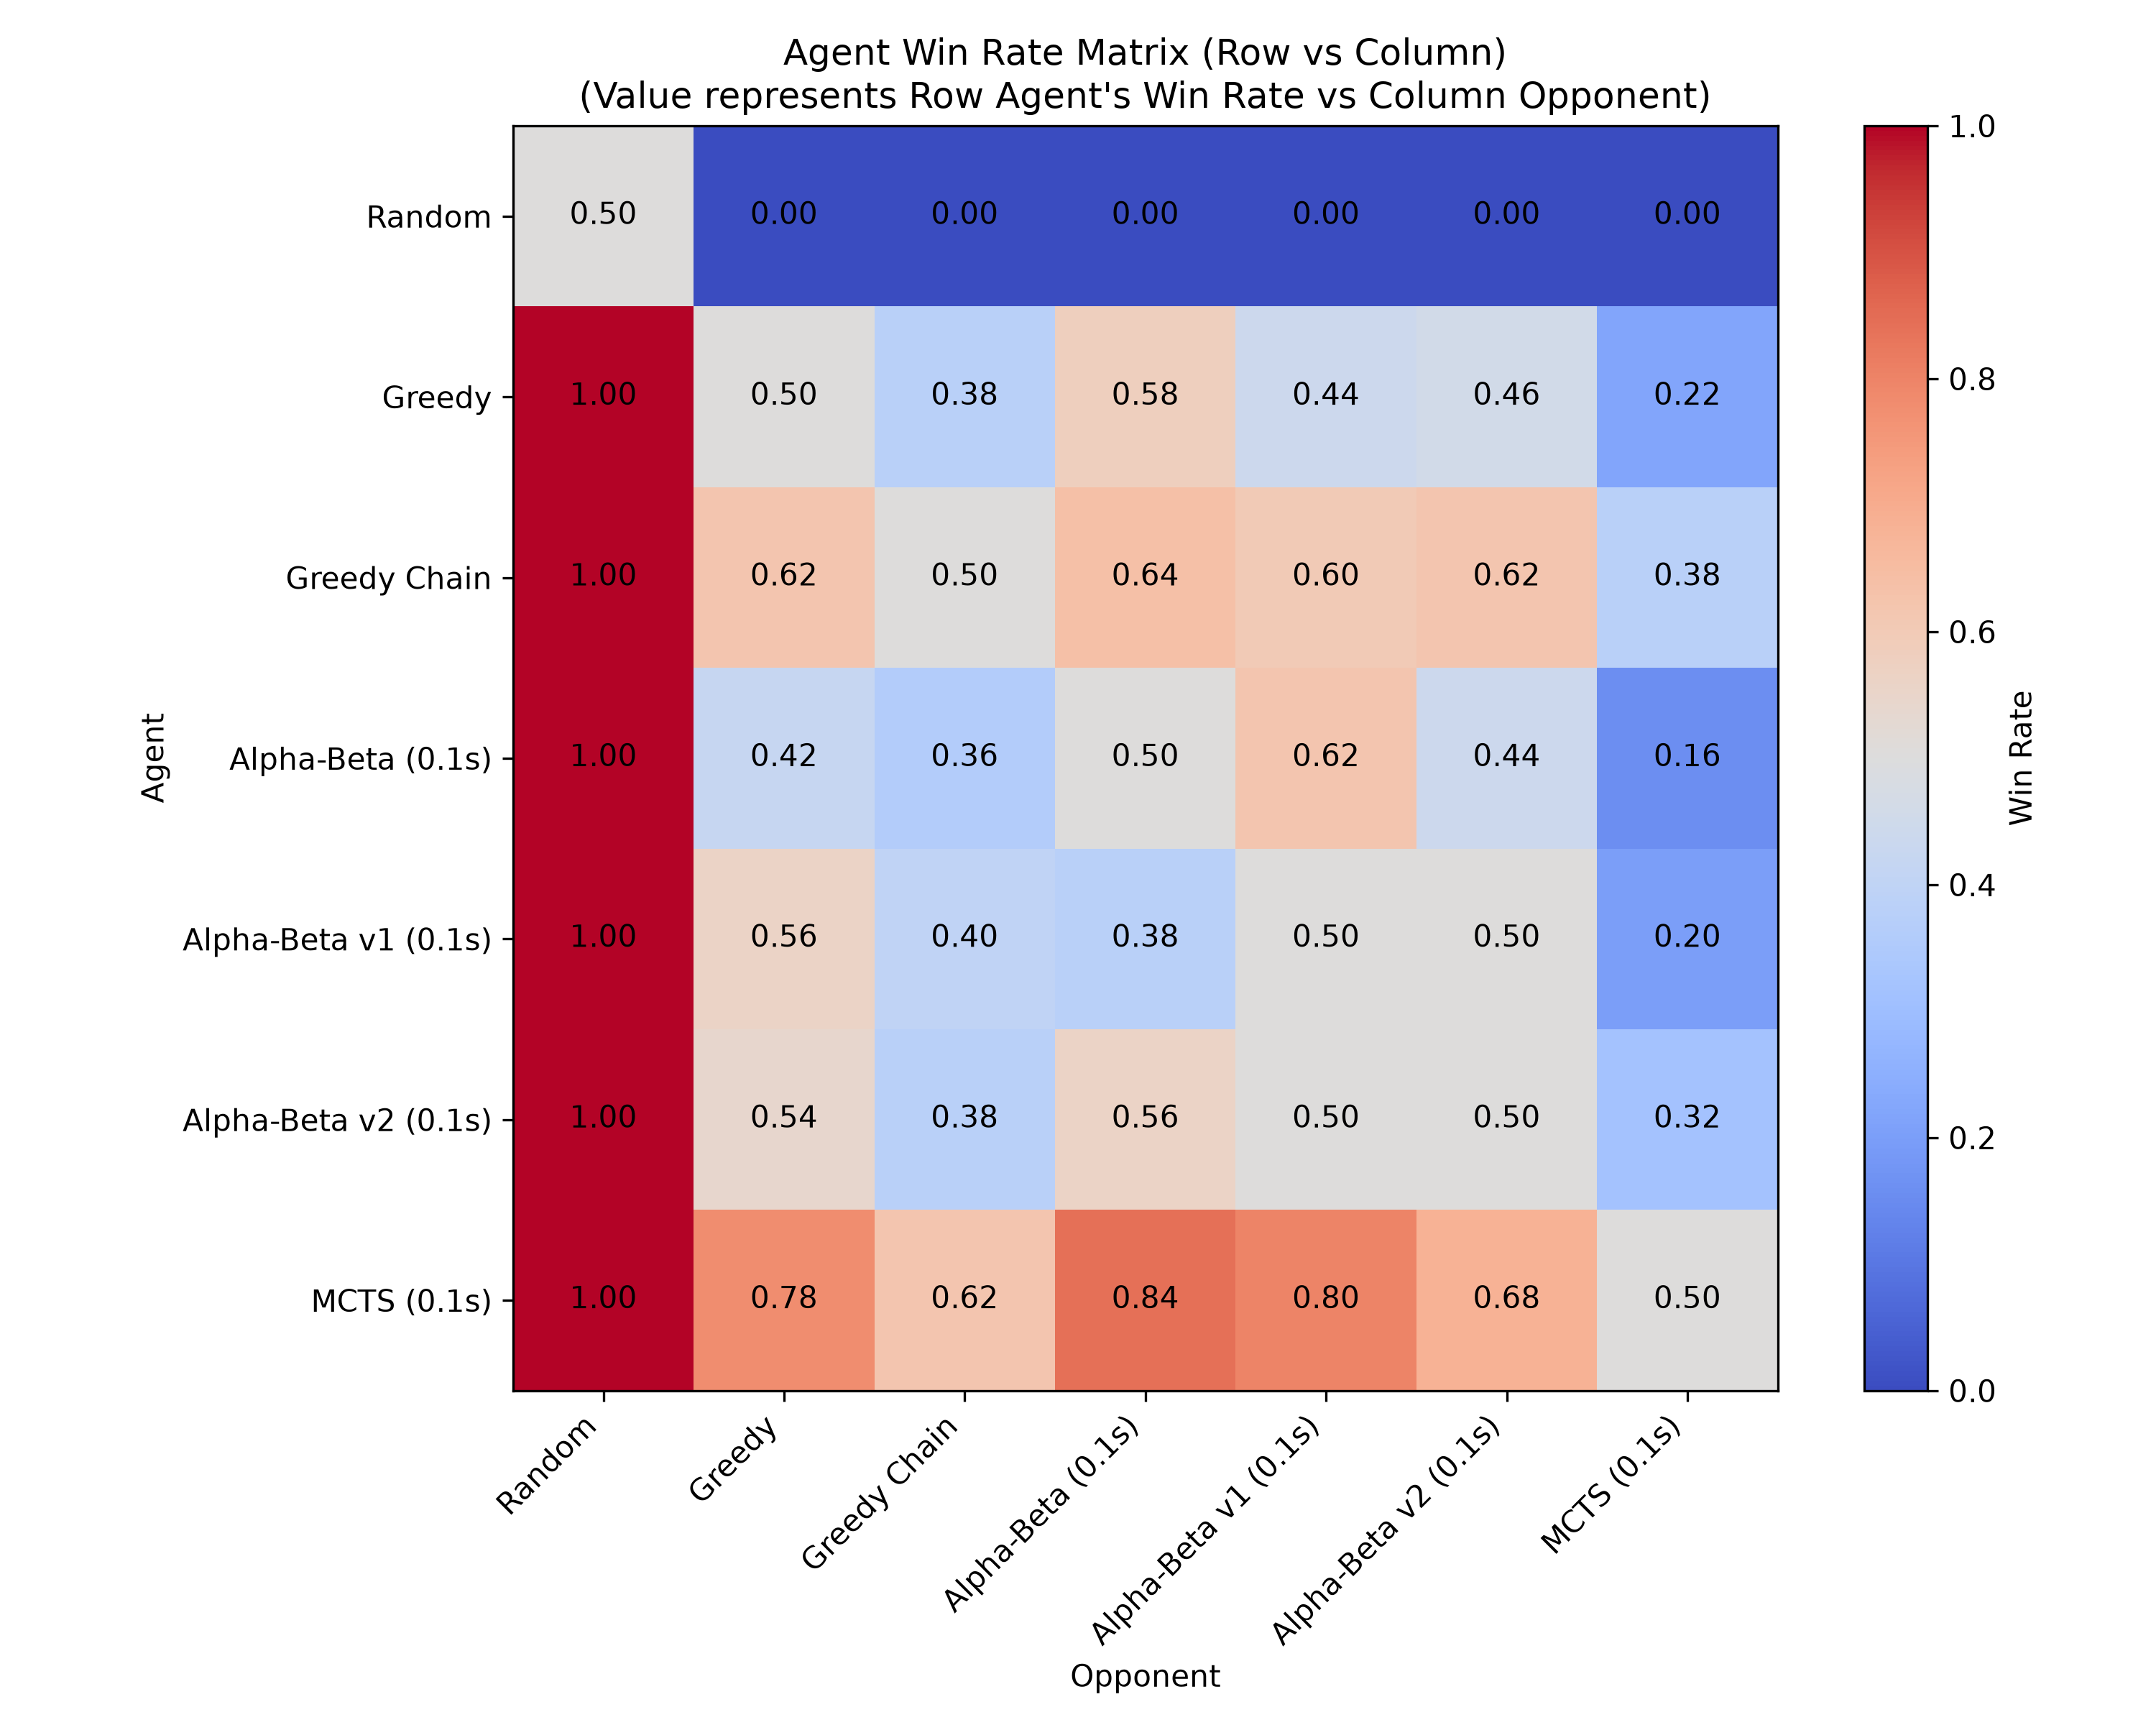
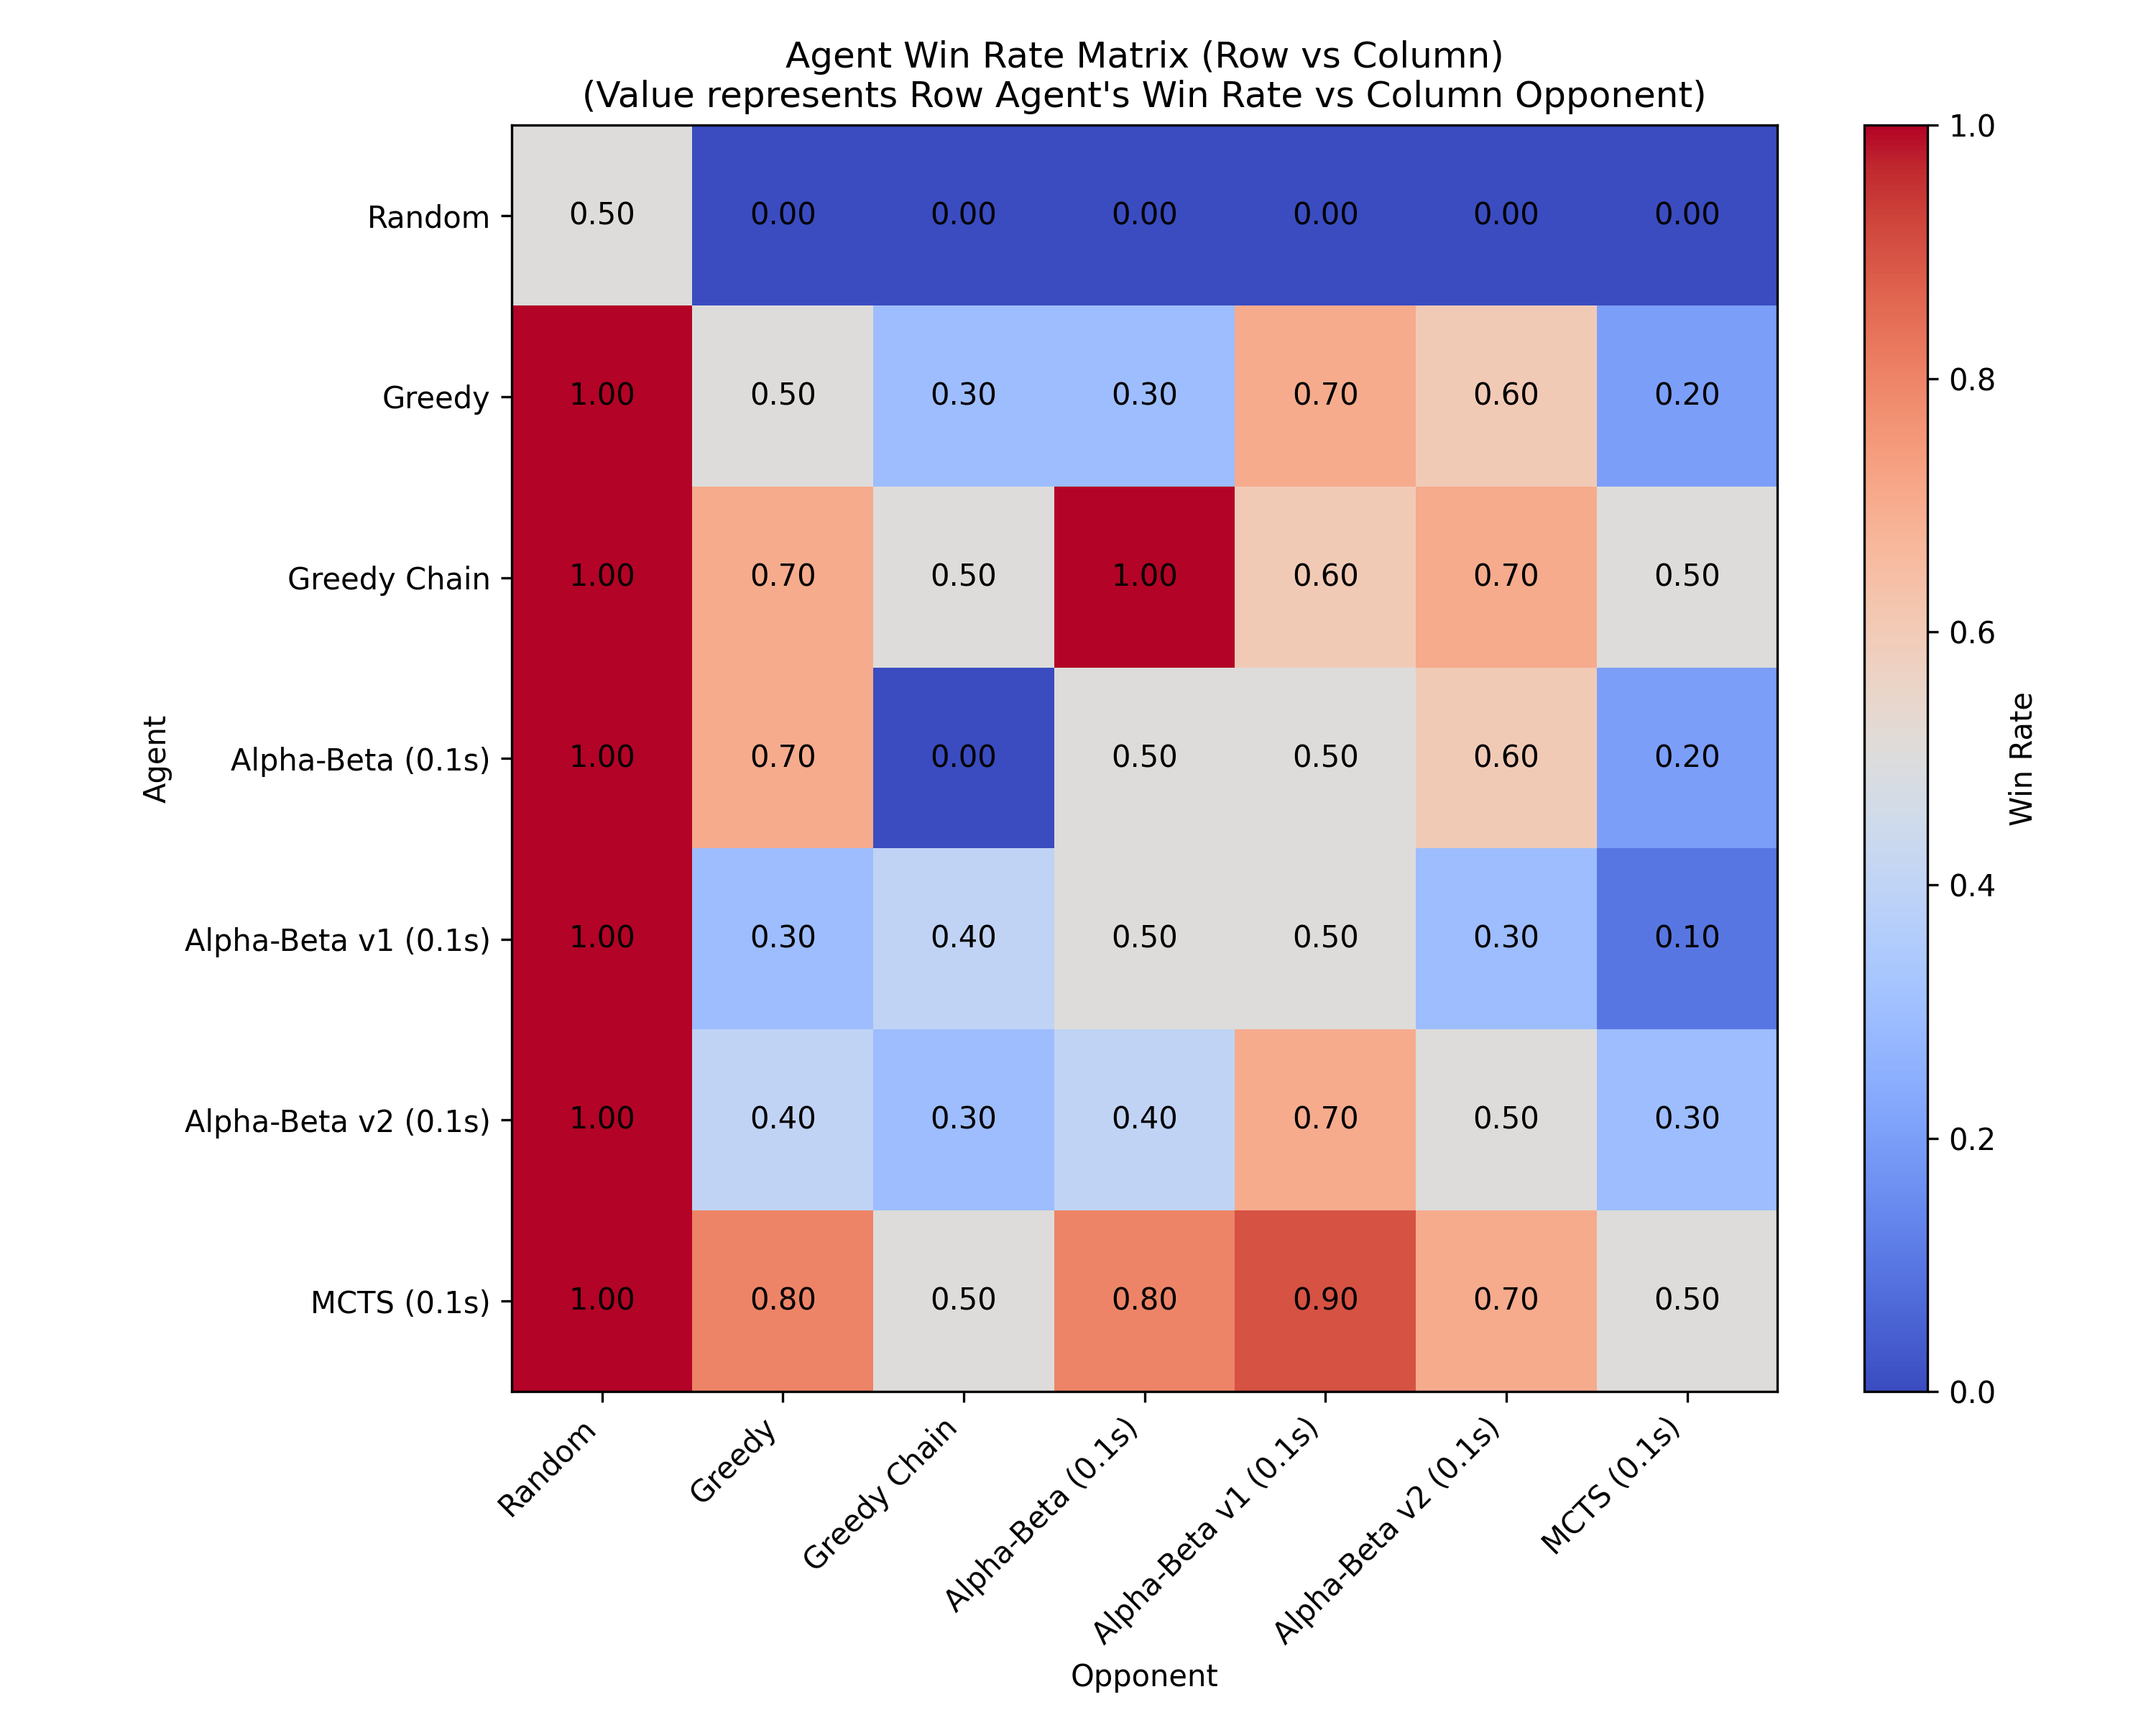
update early stopping for wworker and trainer.
MCTS run with N_simulation = 200 for both traiiner and evaluator

diff --git a/check_early_stopping.py b/check_early_stopping.py
@@ -1,0 +1,144 @@
+import numpy as np
+import random
+from game import DotsAndBoxesGame
+
+def run_5x5_simulation():
+    print("\n--- Running 5x5 Simulation with identical move sequence ---")
+    size = 5
+    
+    # We want to play two games with the exact same sequence of moves.
+    # To do this, we'll first play a game without early stopping, record the move sequence,
+    # and then replay it on a game with early stopping.
+    
+    # 1. Play game without early stopping to completion
+    game_no_early = DotsAndBoxesGame(size=size, early_stopping=False, starting_player=1)
+    # Fix the random seed for reproducible random moves
+    random.seed(42)
+    np.random.seed(42)
+    
+    moves_played = []
+    while game_no_early.is_running():
+        valid_moves = game_no_early.get_valid_moves()
+        move = random.choice(valid_moves)
+        moves_played.append(move)
+        game_no_early.execute_move(move)
+        
+    total_moves_no_early = len(moves_played)
+    p1_score_no_early = int(np.sum(game_no_early.b == 1))
+    p2_score_no_early = int(np.sum(game_no_early.b == -1))
+    winner_no_early = game_no_early.result
+    
+    print(f"[No Early Stopping] Game finished. Total moves: {total_moves_no_early}")
+    print(f"                    Final Score -> P1: {p1_score_no_early} | P2: {p2_score_no_early} | Winner: {winner_no_early}")
+    
+    # 2. Replay the same moves in a game WITH early stopping
+    game_yes_early = DotsAndBoxesGame(size=size, early_stopping=True, starting_player=1)
+    
+    moves_played_yes_early = 0
+    for move in moves_played:
+        if not game_yes_early.is_running():
+            break
+        game_yes_early.execute_move(move)
+        moves_played_yes_early += 1
+        
+    p1_score_yes_early = int(np.sum(game_yes_early.b == 1))
+    p2_score_yes_early = int(np.sum(game_yes_early.b == -1))
+    winner_yes_early = game_yes_early.result
+    
+    print(f"[With Early Stopping] Game finished. Total moves: {moves_played_yes_early}")
+    print(f"                     Score at finish -> P1: {p1_score_yes_early} | P2: {p2_score_yes_early} | Winner: {winner_yes_early}")
+    
+    # Assert correctness
+    assert winner_yes_early == winner_no_early, "Winner mismatch between early stopping and full completion!"
+    assert moves_played_yes_early < total_moves_no_early, "Early stopping should have finished in fewer moves!"
+    print("5x5 Early Stopping correctness & move counts verified successfully!")
+
+def test_early_stopping():
+    print("Running early stopping checks...")
+
+    # Scenario 1: early_stopping=False (Default)
+    # The game should NOT stop early even if mathematically decided.
+    size = 3
+    game_default = DotsAndBoxesGame(size=size, early_stopping=False)
+    
+    # Let's say Player 1 gets 6 boxes, Player 2 gets 0 boxes, 3 remain.
+    # Player 1 has already won mathematically (6 > 0 + 3), but game is not finished yet.
+    game_default.b = np.array([
+        [1, 1, 1],
+        [1, 1, 1],
+        [0, 0, 0]
+    ])
+    
+    game_default.check_finished()
+    print(f"[Default, Early Stopping = False] Leads 6 to 0 (3 remaining). Result: {game_default.result} (Expected: None)")
+    assert game_default.result is None, "Should not terminate early when early_stopping=False"
+
+    # Fill up the rest of the boxes.
+    # Player 2 captures the remaining 3 boxes. P1 has 6, P2 has 3. P1 wins.
+    game_default.b = np.array([
+        [1, 1, 1],
+        [1, 1, 1],
+        [-1, -1, -1]
+    ])
+    game_default.check_finished()
+    print(f"[Default, Early Stopping = False] Fully finished (6 to 3). Result: {game_default.result} (Expected: 1)")
+    assert game_default.result == 1, f"Winner should be 1, got {game_default.result}"
+
+    # Scenario 2: early_stopping=True
+    # The game should stop early as soon as the result is mathematically decided.
+    game_early = DotsAndBoxesGame(size=size, early_stopping=True)
+    
+    # Case A: Player 1 leads mathematically
+    # Player 1 has 5, Player 2 has 0, 4 remaining.
+    # 5 > 0 + 4 -> Player 1 wins mathematically.
+    game_early.b = np.array([
+        [1, 1, 1],
+        [1, 1, 0],
+        [0, 0, 0]
+    ])
+    game_early.check_finished()
+    print(f"[Early Stopping = True] Player 1 leads 5 to 0 (4 remaining). Result: {game_early.result} (Expected: 1)")
+    assert game_early.result == 1, f"Expected 1, got {game_early.result}"
+
+    # Case B: Player 2 leads mathematically
+    # Player 2 has 6, Player 1 has 1, 2 remaining.
+    # 6 > 1 + 2 -> Player 2 wins mathematically.
+    game_early_p2 = DotsAndBoxesGame(size=size, early_stopping=True)
+    game_early_p2.b = np.array([
+        [-1, -1, -1],
+        [-1, -1, -1],
+        [1, 0, 0]
+    ])
+    game_early_p2.check_finished()
+    print(f"[Early Stopping = True] Player 2 leads 6 to 1 (2 remaining). Result: {game_early_p2.result} (Expected: -1)")
+    assert game_early_p2.result == -1, f"Expected -1, got {game_early_p2.result}"
+
+    # Case C: Not yet mathematically decided
+    # Player 1 has 4, Player 2 has 1, 4 remaining.
+    # 4 is not > 1 + 4 (which is 5). Opponent could still win or draw.
+    game_undecided = DotsAndBoxesGame(size=size, early_stopping=True)
+    game_undecided.b = np.array([
+        [1, 1, 1],
+        [1, -1, 0],
+        [0, 0, 0]
+    ])
+    game_undecided.check_finished()
+    print(f"[Early Stopping = True] Undecided 4 to 1 (4 remaining). Result: {game_undecided.result} (Expected: None)")
+    assert game_undecided.result is None, f"Expected None, got {game_undecided.result}"
+
+    # Scenario 3: Draw verification (fully finished)
+    game_draw = DotsAndBoxesGame(size=2, early_stopping=True)
+    # A 2x2 board has 4 boxes. Player 1 gets 2, Player 2 gets 2.
+    game_draw.b = np.array([
+        [1, -1],
+        [1, -1]
+    ])
+    game_draw.check_finished()
+    print(f"[Draw verification] Finished 2 to 2. Result: {game_draw.result} (Expected: 0)")
+    assert game_draw.result == 0, f"Expected 0, got {game_draw.result}"
+
+    print("All checks completed successfully!")
+
+if __name__ == "__main__":
+    test_early_stopping()
+    run_5x5_simulation()

diff --git a/game.py b/game.py
@@ -38,11 +38,12 @@ class DotsAndBoxesGame:
         tracks which boxes were captured by which player
         element values: {-1, 0, 1} = {box captured by player 2, box not captured yet, box captured by player 1}
     """
-    def __init__(self, size: int, starting_player: int = None):
+    def __init__(self, size: int, starting_player: int = None, early_stopping: bool = False):
 
         self.SIZE = size
         self.current_player = (1 if randint(0, 1) == 1 else -1) if starting_player is None else starting_player
         self.result = None
+        self.early_stopping = early_stopping
 
         # lines
         self.N_LINES = 2 * size * (size + 1)
@@ -128,6 +129,7 @@ class DotsAndBoxesGame:
         c.N_BOXES = self.N_BOXES
         c.current_player = self.current_player
         c.result = self.result
+        c.early_stopping = self.early_stopping
         c.l = self.l.copy()
         c.b = self.b.copy()
         c._history = list(self._history) if track_history else []
@@ -164,9 +166,9 @@ class DotsAndBoxesGame:
         # Early termination: result is already mathematically decided
         # If one player leads by more than all remaining uncaptured boxes,
         # the opponent cannot catch up regardless of who captures what remains.
-        if p1_score > p2_score + remaining_boxes:
+        if self.early_stopping and (p1_score > p2_score + remaining_boxes):
             self.result = 1
-        elif p2_score > p1_score + remaining_boxes:
+        elif self.early_stopping and (p2_score > p1_score + remaining_boxes):
             self.result = -1
         elif remaining_boxes == 0:
             # All boxes captured: normal end-of-game scoring

diff --git a/coach.py b/coach.py
@@ -228,7 +228,7 @@ def worker_execute_episode_chunk(worker_args):
         p1_is_latest = random.choice([True, False])
 
         train_examples = []
-        game = DotsAndBoxesGame(size=game_size, starting_player=1)
+        game = DotsAndBoxesGame(size=game_size, starting_player=1, early_stopping=False)  # Full game for training data
 
         # Reverse Curriculum Logic: Pre-fill the board using the historical log sequence.
         if game_sequence is not None and start_fill_pct >= 0.001:
@@ -340,7 +340,7 @@ def worker_play_single(worker_args):
             pi = mcts2.play(g, temp=0, add_root_noise=False)
             return np.argmax(pi)
             
-    game = DotsAndBoxesGame(size=game_size, starting_player=1)
+    game = DotsAndBoxesGame(size=game_size, starting_player=1, early_stopping=True)  # Early stopping for faster evaluation
     players = {1: agent1, -1: agent2} if p1_starts else {1: agent2, -1: agent1}
     
     while game.is_running():

diff --git a/distributed/evaluator.py b/distributed/evaluator.py
@@ -28,7 +28,7 @@ eval_args = dotdict({
     'c_puct': config.MCTS_C_PUCT,
     'dirichlet_eps': 0.0,
     'dirichlet_alpha': config.MCTS_DIRICHLET_ALPHA,
-    'time_limit': 0.1,  # 100ms time limit for AlphaZero MCTS in evaluation
+    'time_limit': None,  # Use simulation-count mode (MCTS_NUM_SIMULATIONS), never time-limited
     'device': 'cpu'  # CPU allows us to run evaluation in parallel efficiently
 })
 
@@ -40,7 +40,7 @@ def _worker_play_single(worker_args):
     candidate_path, opp_identifier, p1_starts = worker_args
     import copy
     
-    game = DotsAndBoxesGame(size=5)
+    game = DotsAndBoxesGame(size=5, early_stopping=True)  # Early stopping for faster evaluation
     
     # 1. Candidate Model
     cand_net = NNetWrapper(game, eval_args)

diff --git a/benchmark_mcts.py b/benchmark_mcts.py
@@ -14,7 +14,7 @@ from mcts import MCTS, AZNode
 import config
 
 def get_prefilled_game(num_moves):
-    game = DotsAndBoxesGame(size=5)
+    game = DotsAndBoxesGame(size=5,early_stopping=False)
     # Use a seed for reproducibility across different runs/tests
     rng = _random.Random(42)
     for _ in range(num_moves):

diff --git a/tournament.py b/tournament.py
@@ -91,7 +91,7 @@ def run_single_matchup(args):
     for i in tqdm(range(num_games), desc=f"Playing {agent1_name} vs {agent2_name}"):
         # Alternate who starts to ensure fairness
         starting_player = 1 if (i % 2 == 0) else -1
-        game = DotsAndBoxesGame(size=size, starting_player=starting_player)
+        game = DotsAndBoxesGame(size=size, starting_player=starting_player,early_stopping=True)
         
         game_moves = []
         game_policies = []